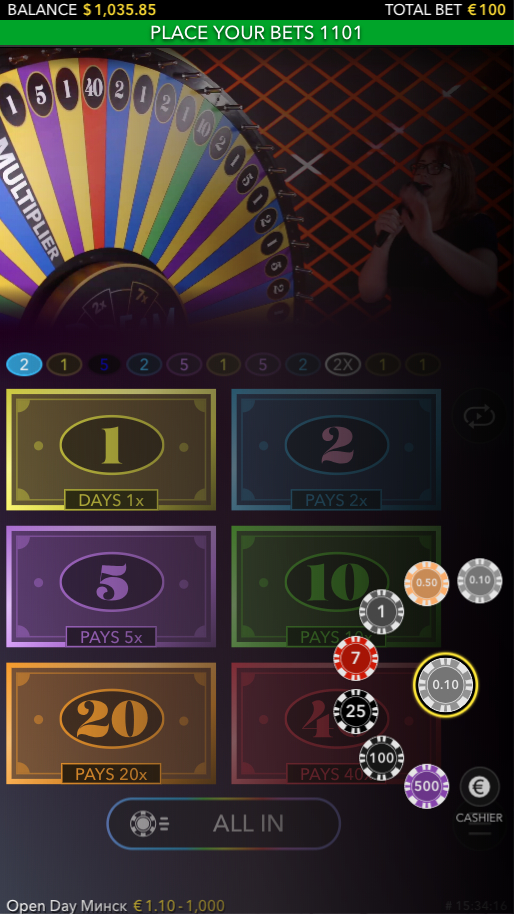
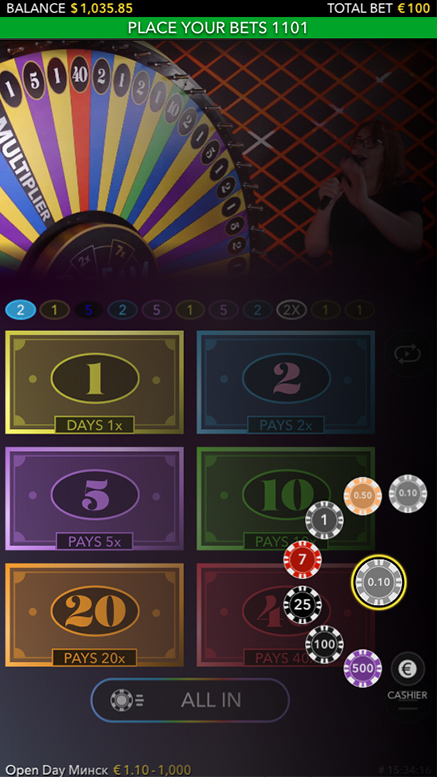
resize images and style code

diff --git a/src/components/SpotTheDifferences.js b/src/components/SpotTheDifferences.js
@@ -41,7 +41,7 @@ class SpotTheDifferences extends Component {
         console.log(answers);
         for (let i = 0; i < answers.length; i++) {
             if (!answers[i].found) {
-                if ((answers[i].coords[0] - 15) < mousePos.x && mousePos.x < (answers[i].coords[0] + 15)) {
+                if ((answers[i].coords[0] - answers[i].coords[2]) < mousePos.x && mousePos.x < (answers[i].coords[0] + answers[i].coords[2])) {
                     if ((answers[i].coords[1] - 15) < mousePos.y && mousePos.y < (answers[i].coords[1] + 15)) {
                         answers[i].found = true;
                         this.setState({
@@ -55,16 +55,15 @@ class SpotTheDifferences extends Component {
             }
         }
         this.props.storeDifferences(answers);
-        console.log("PERSON " + this.props.person)
     }
 
     render() {
         return <div className="singleQuestion">
             <legend>{quizQuestionsList.length+2}. Spot {this.countQuestions()} differences</legend>
-            click the difference when you have found it!
+            Tap the difference when you found it!
             <div className="canvas-container">
-                <canvas id="left-canvas" width="514" height="914" onClick={this.handleClick.bind(this)}></canvas>
-                <canvas id="right-canvas" width="514" height="914" onClick={this.handleClick.bind(this)}></canvas>
+                <canvas id="left-canvas" width="437" height="777" onClick={this.handleClick.bind(this)}/>
+                <canvas id="right-canvas" width="437" height="777" onClick={this.handleClick.bind(this)}/>
             </div>
         </div>
     }

diff --git a/src/data/answers.js b/src/data/answers.js
@@ -1,54 +1,55 @@
 let answersCoords = [
     {
-        coords: [358, 717],
+        //x,y,width of x
+        coords: [127, 10, 15],
         found: false
     },
     {
-        coords: [229, 834],
+        coords: [290, 29, 15],
         found: false
     },
     {
-        coords: [340, 448],
+        coords: [415, 12, 15],
         found: false
     },
     {
-        coords: [339, 37],
+        coords: [90, 312, 15],
         found: false
     },
     {
-        coords: [496, 15],
+        coords: [287, 379, 15],
         found: false
     },
     {
-        coords: [143, 14],
+        coords: [302, 605, 15],
         found: false
     },
     {
-        coords: [109, 370],
+        coords: [196, 701, 60],
         found: false
     },
     {
-        coords: [88, 10],
+        coords: [90, 771, 15],
         found: false
     },
     {
-        coords: [86, 509],
+        coords: [134, 770, 15],
         found: false
     },
     {
-        coords: [444, 696],
+        coords: [380, 582, 15],
         found: false
     },
     {
-        coords: [357, 666],
+        coords: [302, 560, 15],
         found: false
     },
     {
-        coords: [103, 917],
+        coords: [95, 426, 30],
         found: false
     },
     {
-        coords: [153, 919],
+        coords: [73, 7, 15  ],
         found: false
     }
 ];

diff --git a/src/components/FindWrongCode.js b/src/components/FindWrongCode.js
@@ -39,14 +39,12 @@ class FindWrongCode extends Component {
     render() {
         return <div className="singleQuestion">
             <legend>{quizQuestionsList.length+1}. What is wrong with this code?</legend>
-            click the lines that you don't like!
-            <div>
-                <div className="highlight">
+            Tap the lines that look wrong!
+            <div className="highlight">
                     {this.state.someText.split("\n").map((item, key) => {
                         return <div className="codeLine" key={key}
                                      onClick={this.changeColor.bind(this)}>{item}<br/></div>;
                     })}
-                </div>
             </div>
         </div>
     }

diff --git a/src/javaFormatting.css b/src/javaFormatting.css
@@ -1,0 +1,23 @@
+div.highlight {
+    font-family: monospace;
+    background-color: #fff;
+    width: 95%;
+    border-radius: .25em;
+    box-shadow: 0.1em 0.1em 0.5em rgba(0, 0, 0, 0.45);
+    line-height: 0;
+    counter-reset: line;
+}
+div.highlight div {
+    display: block;
+    line-height: 1.5rem;
+}
+div.highlight div:before {
+    counter-increment: line;
+    width: 2rem;
+    content: counter(line);
+    display: inline-block;
+    border-right: 1px solid #ddd;
+    padding: 0 .5em;
+    margin-right: .5em;
+    color: #888;
+}

diff --git a/src/App.css b/src/App.css
@@ -1,7 +1,13 @@
 /* Canvas Styling */
 .canvas-container {
     margin: 0 auto;
-    max-width: 1028px;
+    max-width: 874px;
+}
+
+canvas {
+    width: 437px;
+    height: 777px;
+    display: inline-block;
 }
 
 .codeLine {
@@ -26,11 +32,7 @@
     border-radius: 4px;
 }
 
-canvas {
-    width: 514px;
-    height: 924px;
-    display: inline-block;
-}
+
 
 /* Timer Styling */
 .timer {

diff --git a/src/components/Timer.js b/src/components/Timer.js
@@ -3,7 +3,7 @@ import React  from 'react';
 function Timer(props){
     return (
         <div className="timer">
-           You have {props.time/1000} seconds to complete the quizzzzzz!!
+           {props.time/1000} seconds to complete the quizzzzzz!!
         </div>
     );
 }

diff --git a/src/index.js b/src/index.js
@@ -1,6 +1,7 @@
 import React from 'react';
 import ReactDOM from 'react-dom';
 import './index.css';
+import './javaFormatting.css';
 import { createStore } from 'redux';
 import { Provider } from 'react-redux';
 import emptyReducers from './reducers/reducer-answers';
